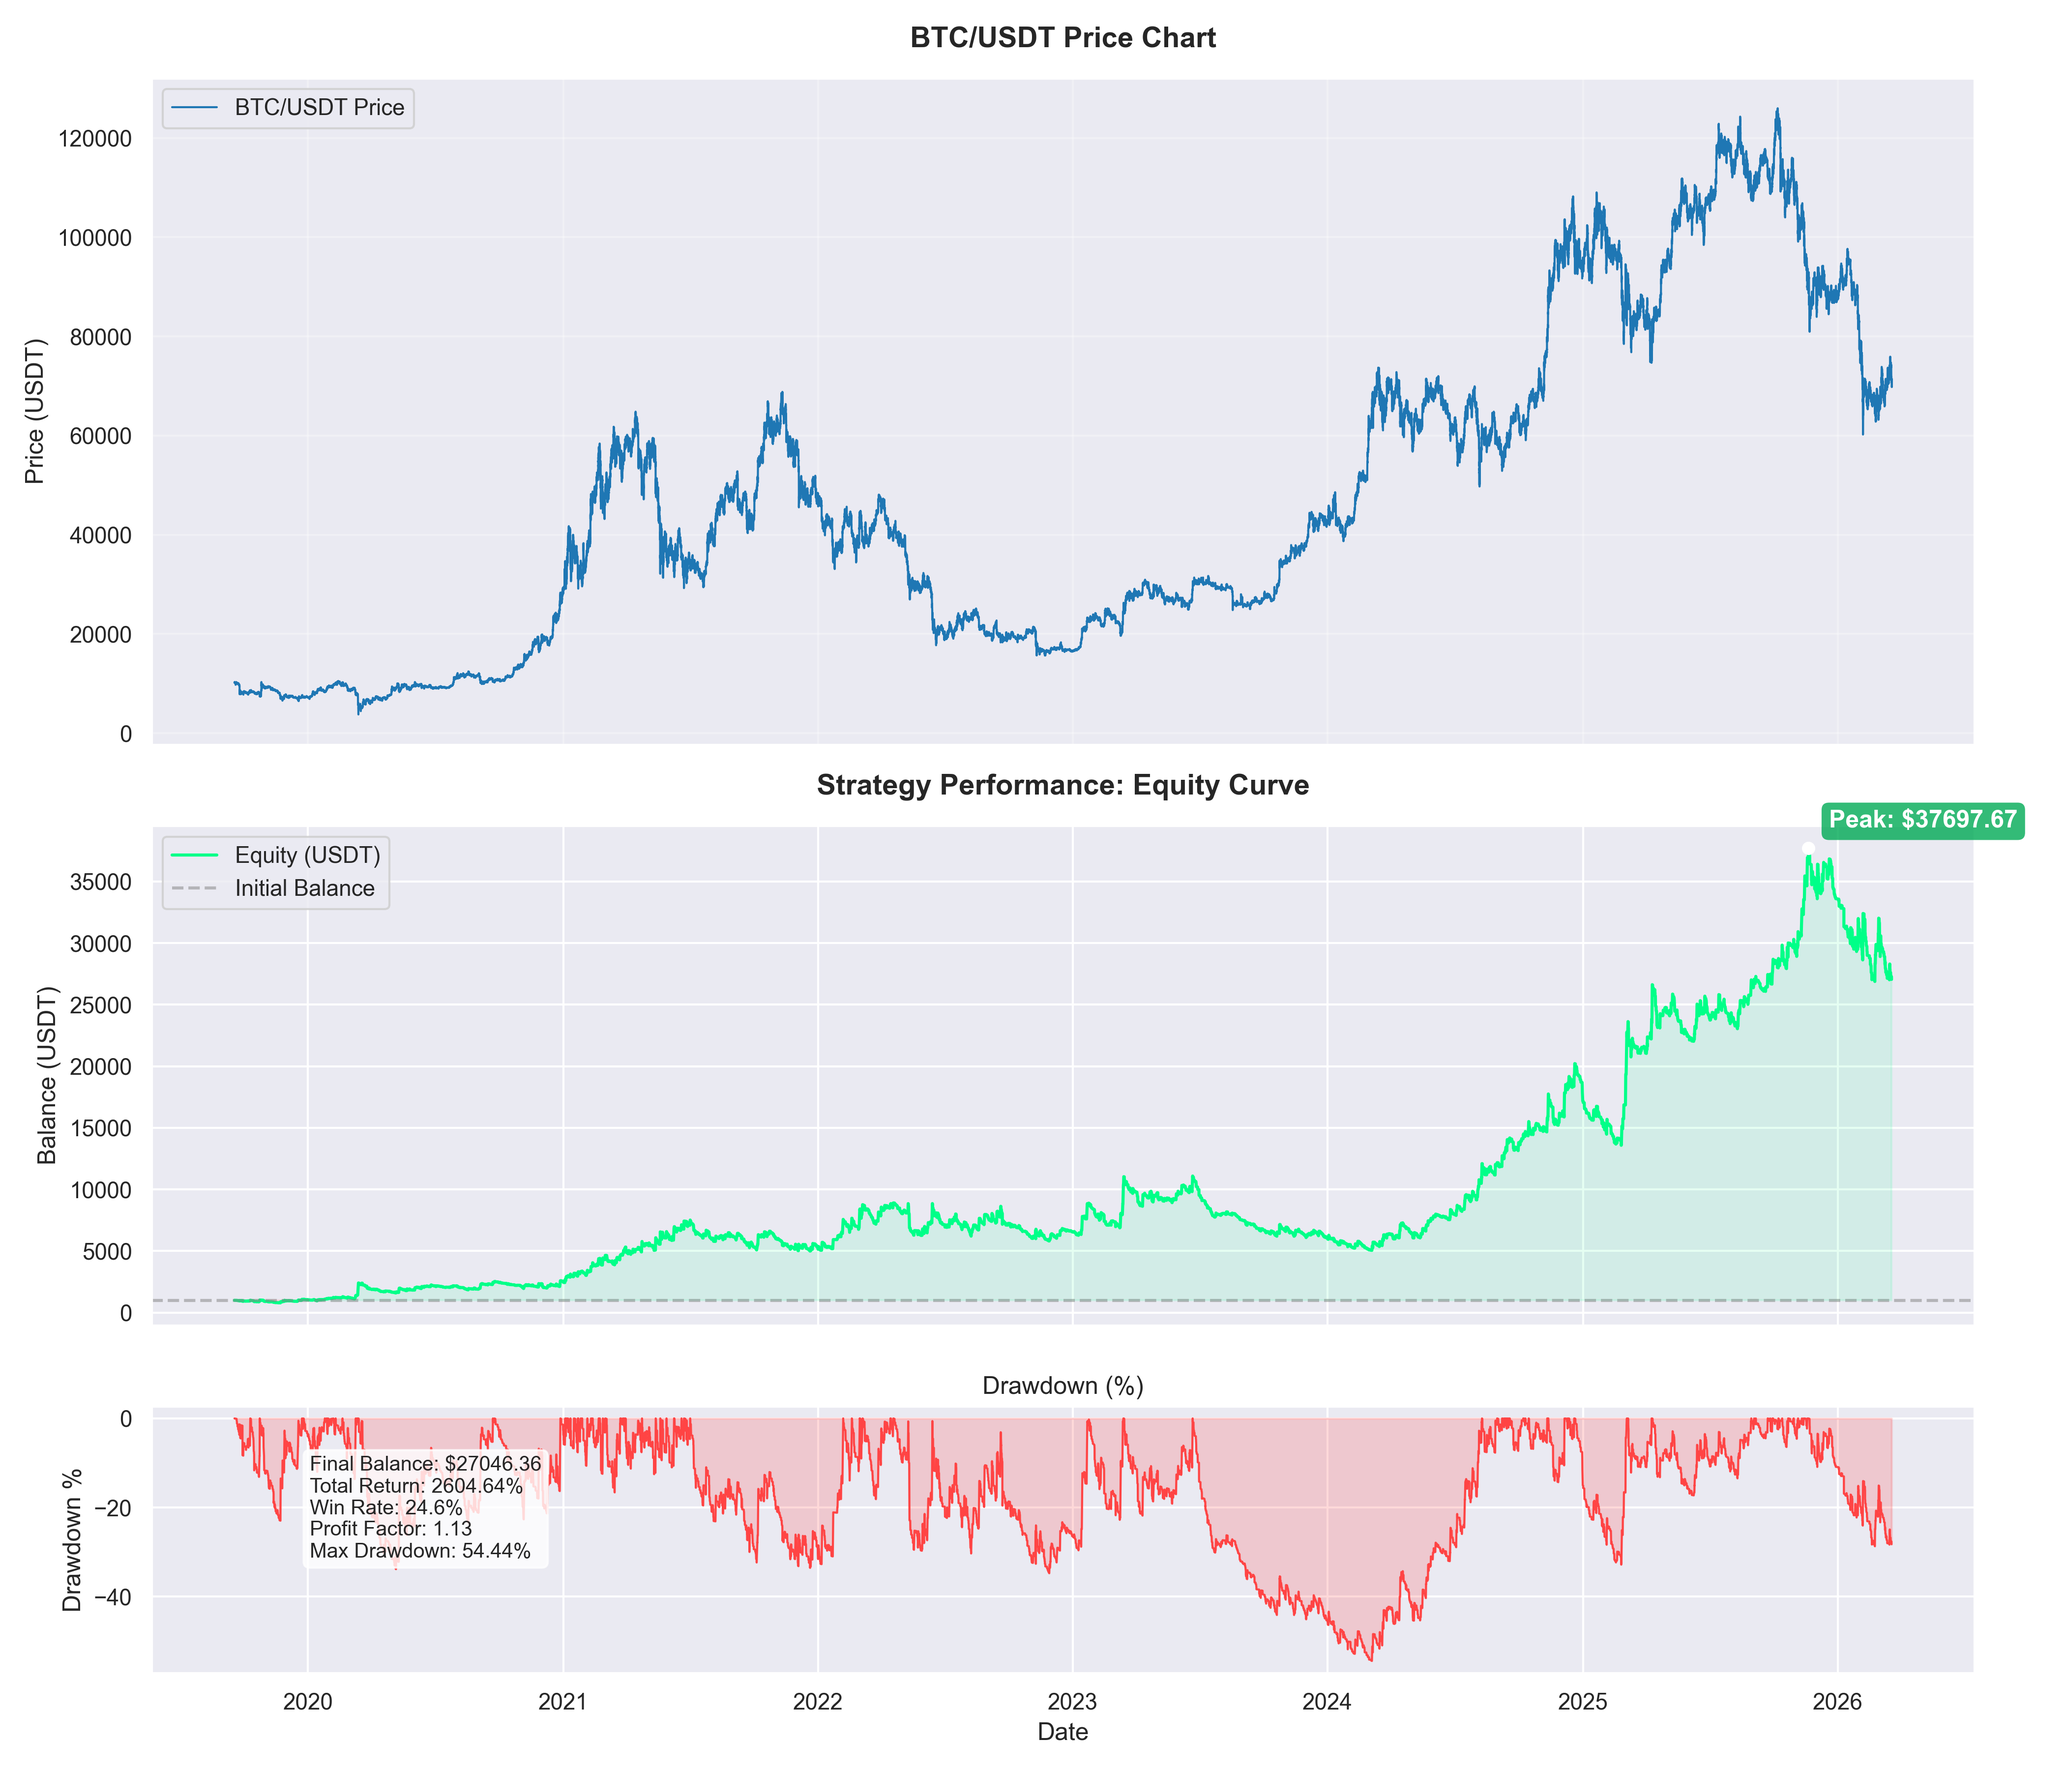
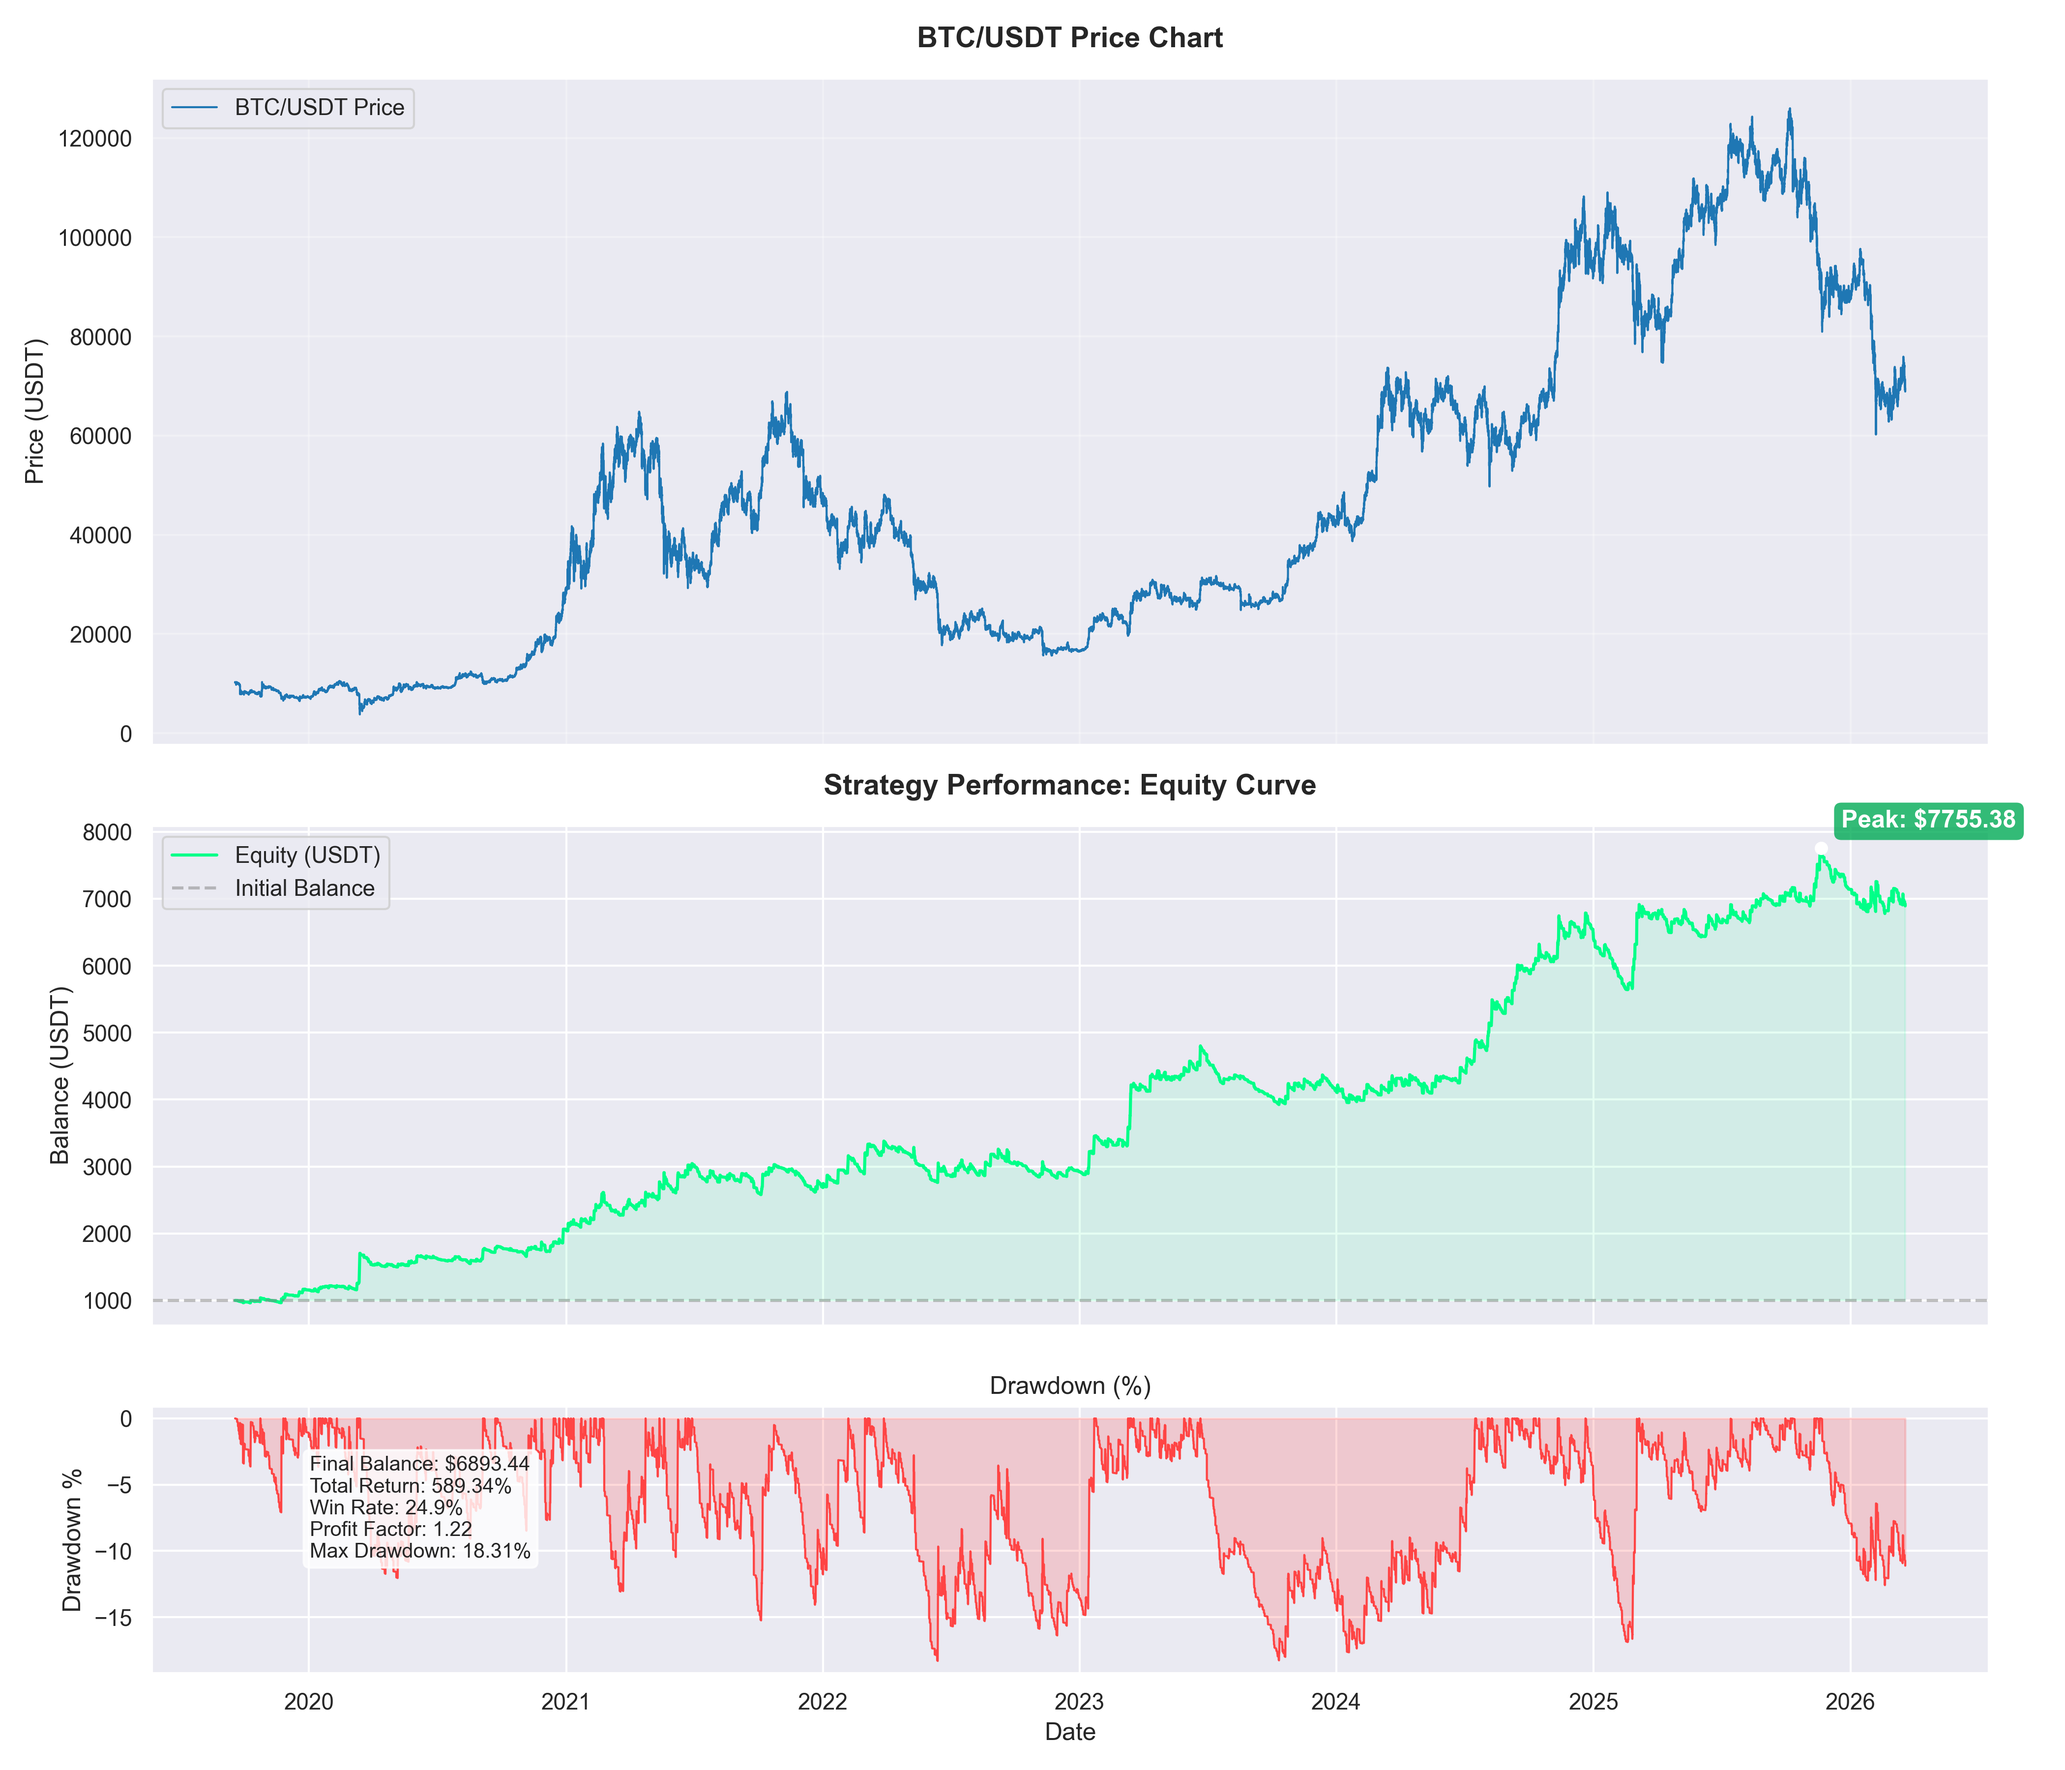
feat: Implement backtesting module including a trade simulator, orchestrator, and data processing for Heikin Ashi, ATR, and ADX.

diff --git a/module/backtest/orchestrator.py b/module/backtest/orchestrator.py
@@ -1,12 +1,17 @@
 import os
 import time
 import sys
+import pandas as pd
+
 # Add project root to sys.path
-sys.path.append(os.path.dirname(os.path.dirname(os.path.dirname(os.path.abspath(__file__)))))
+sys.path.append(
+    os.path.dirname(os.path.dirname(os.path.dirname(os.path.abspath(__file__))))
+)
 from module.bot.data_processor import DataProcessor
 from config import (
     SYMBOL,
     TIMEFRAME,
+    HTF_TIMEFRAME,
     SUPERTREND_LENGTH,
     SUPERTREND_FACTOR,
     EMA_LENGTH,
@@ -22,26 +27,26 @@ from module.backtest.data_loader import BacktestDataLoader
 from module.backtest.simulator import Simulator
 from module.backtest.reporter import BacktestReporter
 
-LIMIT = 300000
+LIMIT = 228000
 WORKERS = 5
 SLEEP = 1.5
 GEN_CHART = True
 
+
 def get_backtest_data(limit=LIMIT):
     loader = BacktestDataLoader(
-        symbol=SYMBOL, 
-        timeframe=TIMEFRAME, 
-        workers=WORKERS, 
-        sleep=SLEEP
+        symbol=SYMBOL, timeframe=TIMEFRAME, workers=WORKERS, sleep=SLEEP
     )
     return loader.get_data(limit=limit)
+
 
 def simulate(
     df,
     use_ema_filter=True,
+    use_volume_filter=True,
+    use_htf_filter=True,
     st_length=SUPERTREND_LENGTH,
     st_factor=SUPERTREND_FACTOR,
-    use_volume_filter=True,
     volume_ma_length=VOLUME_MA_LENGTH,
     sl_multiplier=ATR_MULTIPLIER,
     leverage=LEVERAGE,
@@ -58,13 +63,17 @@ def simulate(
         leverage=leverage,
         position_size_percent=position_size_percent,
         commission_rate=TAKER_FEE_RATE,
-        ema_length=EMA_LENGTH
+        ema_length=EMA_LENGTH,
+        use_htf_filter=use_htf_filter,
     )
     return sim.run(df)
 
+
 def run_backtest():
     print(f"--- Backtest for {SYMBOL} ({TIMEFRAME}) ---")
-    print(f"Strategy: SuperTrend {SUPERTREND_LENGTH}/{SUPERTREND_FACTOR}, EMA {EMA_LENGTH}, Vol MA {VOLUME_MA_LENGTH}")
+    print(
+        f"Strategy: SuperTrend {SUPERTREND_LENGTH}/{SUPERTREND_FACTOR}, EMA {EMA_LENGTH}, Vol MA {VOLUME_MA_LENGTH}"
+    )
 
     df = get_backtest_data(limit=LIMIT)
     if df is None:
@@ -73,16 +82,40 @@ def run_backtest():
     print(f"Processing {len(df)} candles...")
     df_ha = DataProcessor.calculate_heikin_ashi(df)
     df_st = DataProcessor.calculate_supertrend(df_ha)
-    df_st[f"EMA_{EMA_LENGTH}"] = DataProcessor.calculate_ema(df_st, length=EMA_LENGTH)[f"EMA_{EMA_LENGTH}"]
+    df_st[f"EMA_{EMA_LENGTH}"] = DataProcessor.calculate_ema(df_st, length=EMA_LENGTH)[
+        f"EMA_{EMA_LENGTH}"
+    ]
     df_st["ATR"] = DataProcessor.calculate_atr(df, length=ATR_LENGTH)
     df_st = DataProcessor.calculate_volume_ma(df_st, length=VOLUME_MA_LENGTH)
     df_final = df_st
 
+    # HTF Filter: resample to higher timeframe and compute SuperTrend
+    if USE_HTF_FILTER:
+        print(f"Computing HTF ({HTF_TIMEFRAME}) SuperTrend...")
+        df_htf_raw = DataProcessor.resample_to_htf(df, htf=HTF_TIMEFRAME)
+        df_htf_ha = DataProcessor.calculate_heikin_ashi(df_htf_raw)
+        df_htf_st = DataProcessor.calculate_supertrend(df_htf_ha)
+        st_dir_col = f"SUPERTd_{SUPERTREND_LENGTH}_{SUPERTREND_FACTOR}"
+        df_htf_trend = df_htf_st[["timestamp", st_dir_col]].rename(
+            columns={st_dir_col: "HTF_TREND"}
+        )
+        # Merge into 15m df: each 15m candle gets the HTF trend of the last completed HTF candle
+        df_final = pd.merge_asof(
+            df_final.sort_values("timestamp"),
+            df_htf_trend.sort_values("timestamp"),
+            on="timestamp",
+            direction="backward",
+        )
+        print(
+            f"  HTF trend column added. Uptrend: {(df_final['HTF_TREND'] == 1).sum()}, Downtrend: {(df_final['HTF_TREND'] == -1).sum()} candles"
+        )
+
     # Run simulation
     res, trades = simulate(
-        df_final, 
-        use_ema_filter=True, 
-        use_volume_filter=True
+        df_final,
+        use_ema_filter=True,
+        use_volume_filter=True,
+        use_htf_filter=True,
     )
 
     # Log results
@@ -91,12 +124,14 @@ def run_backtest():
     try:
         if GEN_CHART:
             from module.optimize.plot_results import plot_performance
+
             print("\nGenerating Performance Chart...")
             plot_performance(df_final, trades, res)
     except Exception as e:
         print(f"Could not generate chart: {e}")
 
     return res, trades
+
 
 if __name__ == "__main__":
     run_backtest()

diff --git a/module/backtest/simulator.py b/module/backtest/simulator.py
@@ -17,7 +17,8 @@ class Simulator:
         leverage=10,
         position_size_percent=0.2,
         commission_rate=0.0005,
-        ema_length=97
+        ema_length=97,
+        use_htf_filter=False,
     ):
         self.timeframe = timeframe
         self.use_ema_filter = use_ema_filter
@@ -30,6 +31,7 @@ class Simulator:
         self.position_size_percent = position_size_percent
         self.commission_rate = commission_rate
         self.ema_length = ema_length
+        self.use_htf_filter = use_htf_filter
 
     def run(self, df):
         initial_balance = 1000
@@ -122,15 +124,23 @@ class Simulator:
             is_uptrend = price > ema_val if self.use_ema_filter else True
             is_downtrend = price < ema_val if self.use_ema_filter else True
 
+            # Higher Timeframe filter: only trade in direction of 1h trend
+            htf_long_ok = True
+            htf_short_ok = True
+            if self.use_htf_filter and "HTF_TREND" in current_candle.index:
+                htf_trend = current_candle["HTF_TREND"]
+                htf_long_ok = htf_trend == 1
+                htf_short_ok = htf_trend == -1
+
             vol_ma_col = f"VOL_MA_{self.volume_ma_length}"
             vol_ok = True
             if self.use_volume_filter and vol_ma_col in current_candle:
                 vol_ok = current_candle["volume"] > current_candle[vol_ma_col]
 
             signal = None
-            if curr_trend == 1 and prev_trend == -1 and is_uptrend and vol_ok:
+            if curr_trend == 1 and prev_trend == -1 and is_uptrend and vol_ok and htf_long_ok:
                 signal = "LONG"
-            elif curr_trend == -1 and prev_trend == 1 and is_downtrend and vol_ok:
+            elif curr_trend == -1 and prev_trend == 1 and is_downtrend and vol_ok and htf_short_ok:
                 signal = "SHORT"
 
             if signal and position_amt == 0:

diff --git a/module/bot/data_processor.py b/module/bot/data_processor.py
@@ -119,6 +119,47 @@ class DataProcessor:
         return df
 
     @staticmethod
+    def resample_to_htf(df: pd.DataFrame, htf: str) -> pd.DataFrame:
+        """
+        Resample base timeframe OHLCV dataframe to a higher timeframe.
+
+        Args:
+            df: Base timeframe df with 'timestamp' column (timezone-aware).
+            htf: Target timeframe string, e.g. '1h', '4h', '1d'.
+
+        Returns:
+            Resampled DataFrame with OHLCV columns and DatetimeIndex.
+        """
+        # Map timeframe string to pandas offset alias
+        alias_map = {
+            "1m": "1min", "3m": "3min", "5m": "5min", "15m": "15min",
+            "30m": "30min", "1h": "1h", "2h": "2h", "4h": "4h",
+            "6h": "6h", "8h": "8h", "12h": "12h", "1d": "1D", "1w": "1W",
+        }
+        offset = alias_map.get(htf, htf)
+
+        df_indexed = df.set_index("timestamp")
+        df_htf = df_indexed["close"].resample(offset).agg({
+            "open": "first",
+            "high": "max",
+            "low": "min",
+            "close": "last",
+            "volume": "sum",
+        }).dropna()
+
+        # Need to resample all OHLCV columns properly
+        df_htf = df_indexed.resample(offset).agg(
+            open=("open", "first"),
+            high=("high", "max"),
+            low=("low", "min"),
+            close=("close", "last"),
+            volume=("volume", "sum"),
+        ).dropna()
+
+        df_htf = df_htf.reset_index().rename(columns={"timestamp": "timestamp"})
+        return df_htf
+
+    @staticmethod
     def calculate_supertrend(df: pd.DataFrame, length: int = settings.SUPERTREND_LENGTH, multiplier: float = settings.SUPERTREND_FACTOR) -> pd.DataFrame:
         """
         Calculates SuperTrend indicator.

diff --git a/config.py b/config.py
@@ -7,10 +7,11 @@ from dataclasses import dataclass
 # Strategy: SuperTrend + EMA Filter + Volume
 # ==========================================
 
-env_path = os.path.join(os.path.dirname(__file__), '.env')
+env_path = os.path.join(os.path.dirname(__file__), ".env")
 if not os.path.exists(env_path):
-    env_path = os.path.join(os.path.dirname(__file__), 'resource', '.env')
+    env_path = os.path.join(os.path.dirname(__file__), "resource", ".env")
 load_dotenv(env_path)
+
 
 @dataclass(frozen=True)
 class TradingConfig:
@@ -23,6 +24,7 @@ class TradingConfig:
     # Strategy Settings
     SYMBOL: str = "BTC/USDT"
     TIMEFRAME: str = "15m"
+    HTF_TIMEFRAME: str = "4h"
 
     # Strategy Parameters
     SUPERTREND_LENGTH: int = 18
@@ -30,8 +32,8 @@ class TradingConfig:
     EMA_LENGTH: int = 97
 
     # Risk Management
-    LEVERAGE: int = 10
-    POSITION_SIZE_PERCENT: float = 0.2
+    LEVERAGE: int = 1
+    POSITION_SIZE_PERCENT: float = 1
 
     # ATR Stop Loss
     ATR_LENGTH: int = 14
@@ -57,6 +59,7 @@ USE_TESTNET = settings.USE_TESTNET
 LARK_WEBHOOK_URL = settings.LARK_WEBHOOK_URL
 SYMBOL = settings.SYMBOL
 TIMEFRAME = settings.TIMEFRAME
+HTF_TIMEFRAME = settings.HTF_TIMEFRAME
 SUPERTREND_LENGTH = settings.SUPERTREND_LENGTH
 SUPERTREND_FACTOR = settings.SUPERTREND_FACTOR
 EMA_LENGTH = settings.EMA_LENGTH
